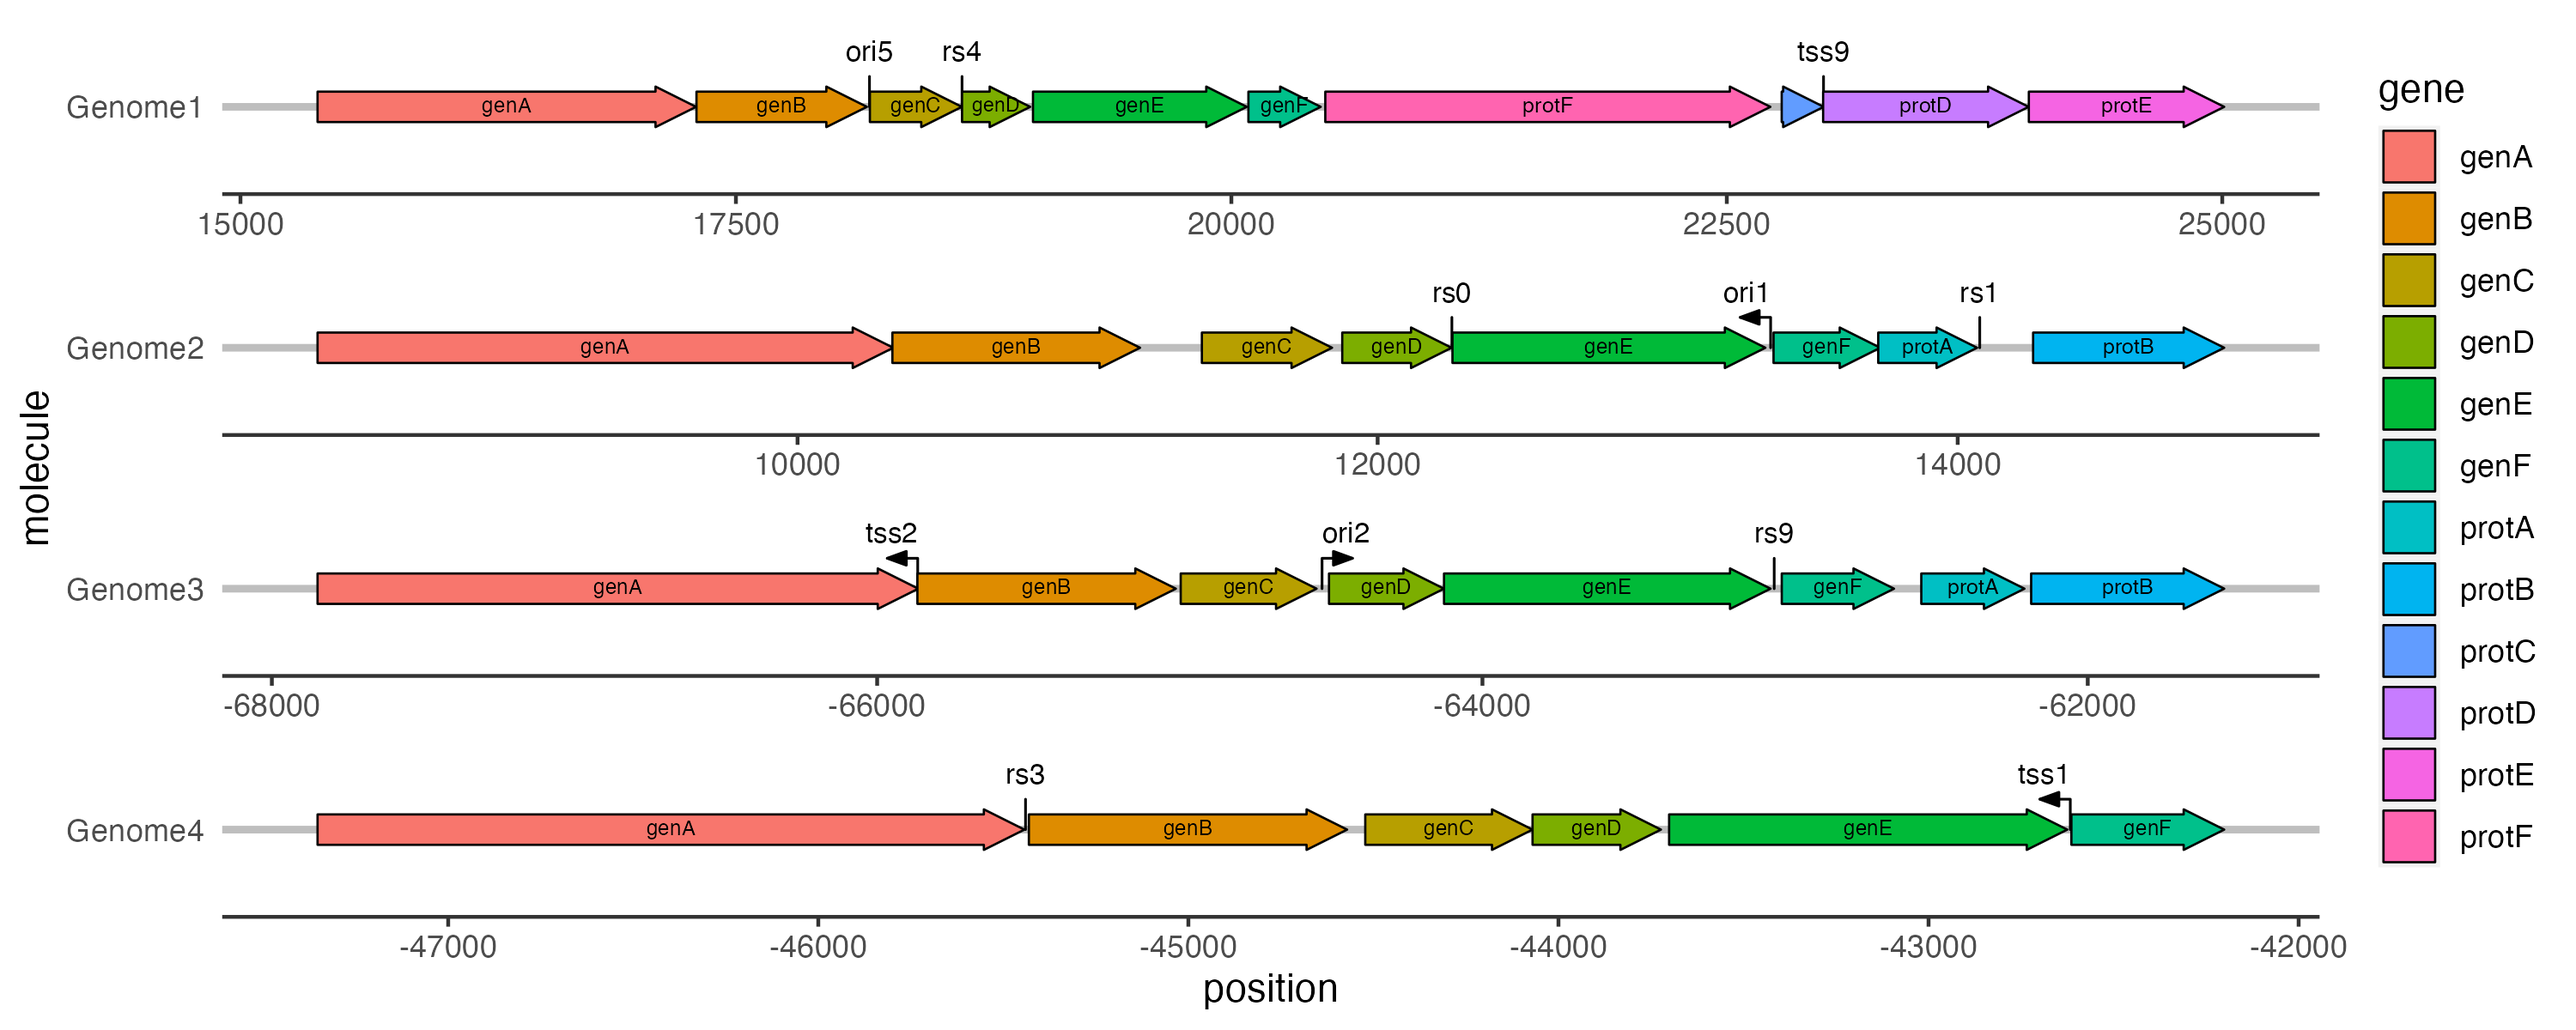
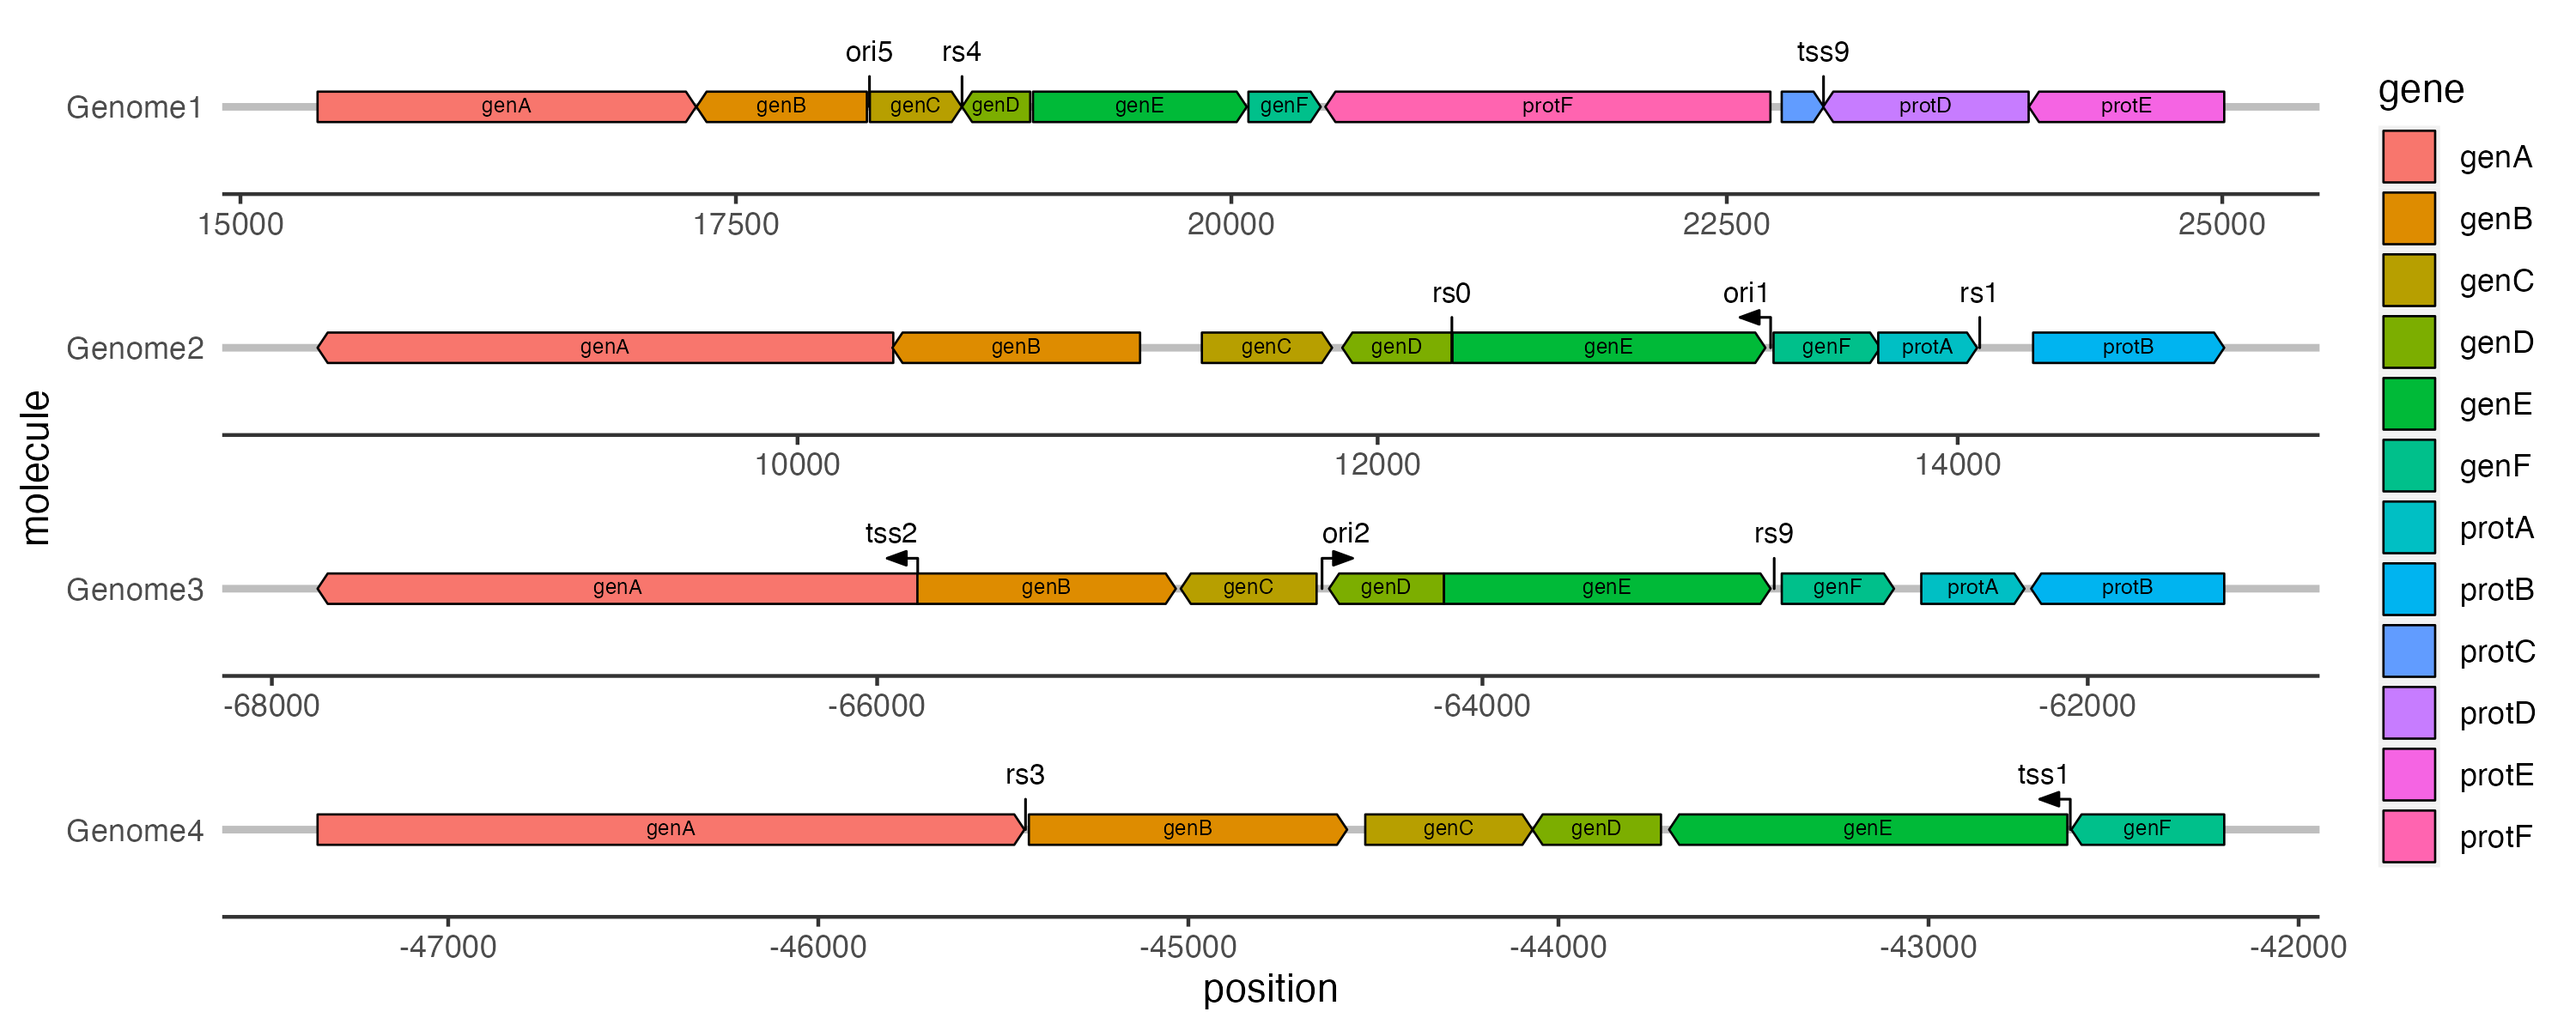
Improve example plot

diff --git a/paper.md b/paper.md
@@ -46,7 +46,7 @@ ggplot(genes, aes(xmin = start, xmax = end, y = molecule,
   geom_feature_label(data = features, 
                      aes(x = position, y = molecule, 
                          label = name, forward = forward)) +
-  geom_gene_arrow() +
+  geom_gene_arrow(arrowhead_height = unit(3, "mm"), arrowhead_width = unit(1, "mm")) +
   geom_gene_label() +
   facet_wrap(~ molecule, scales = "free", ncol = 1) +
   theme_genes()
